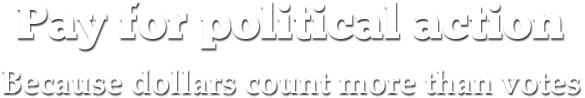
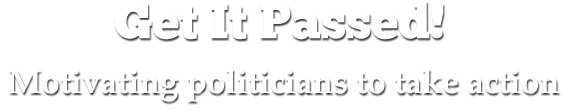
rebranded to getitpassed.org

diff --git a/app/assets/stylesheets/welcome.css.scss b/app/assets/stylesheets/welcome.css.scss
@@ -186,8 +186,8 @@ h4.landing-how-step{
   margin-top: 0px;
   font-size: 20px;
   font-weight: bold;
-  color: #880000;
-  border-bottom: solid 1px #880000;
+  color: #CC0000;
+  border-bottom: solid 1px #CC0000;
   padding-bottom: 7px;
 }
 
